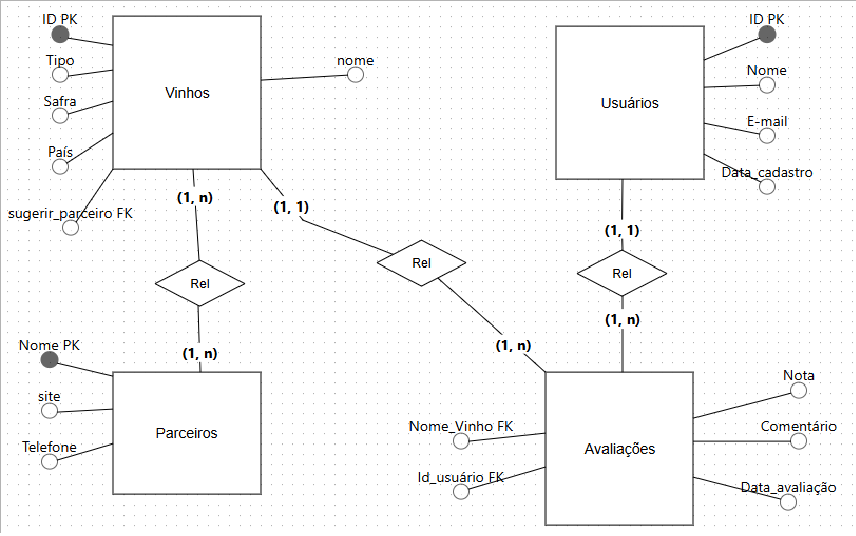
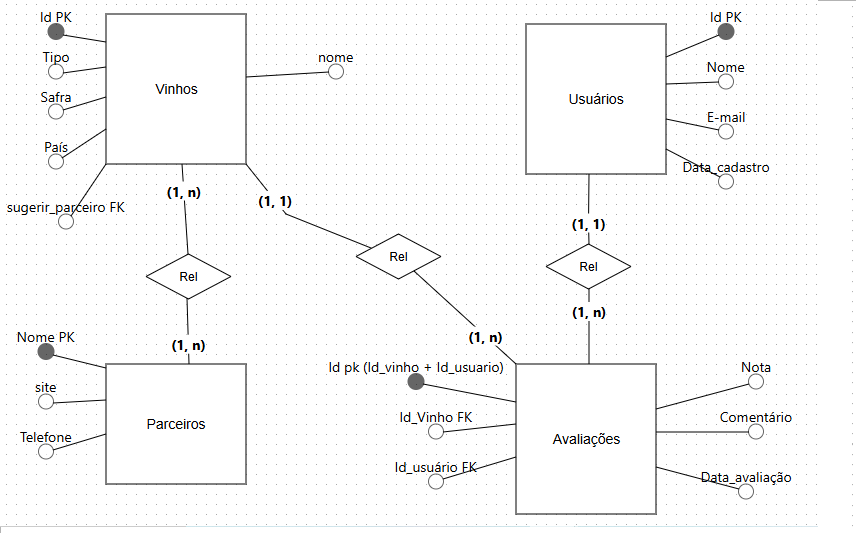
dados para teste inseridos nas tabelas SQL

diff --git a/README.md b/README.md
@@ -8,28 +8,27 @@ Diagrama Entidade Relacionamento
 ![alt text](imagens/DER.png)
 
 
-SQL
-
+```
   CREATE TABLE parceiro (
-  nome VARCHAR(30) PRIMARY KEY,
+  nome VARCHAR(50) PRIMARY KEY,
   site VARCHAR(100),
-  telefone INT
+  telefone VARCHAR(100)
   );
   
   CREATE TABLE vinho (
   id serial PRIMARY KEY,
-  nome VARCHAR(30),
-  tipo VARCHAR(8),
-  safra DATE,
-  pais VARCHAR(5),
+  nome VARCHAR(100),
+  tipo VARCHAR(30),
+  safra INT,
+  pais VARCHAR(30),
   sugerir_parceiro VARCHAR(30),
   FOREIGN KEY (sugerir_parceiro) REFERENCES parceiro(nome)
   );
   
   CREATE TABLE usuario (
   id serial PRIMARY KEY,
-  nome VARCHAR(30),
-  sobrenome VARCHAR(30),
+  nome VARCHAR(100),
+  sobrenome VARCHAR(100),
   email VARCHAR(100),
   data_cadastro DATE
   );
@@ -44,4 +43,29 @@ SQL
   FOREIGN KEY (id_usuario) REFERENCES usuario(id),
   FOREIGN KEY (id_vinho) REFERENCES vinho(id)
   );
-
+  
+  INSERT INTO parceiro (nome, site, telefone) VALUES
+  ('Evino', 'www.evino.com.br', '+55 (11) 4200-4999'),
+  ('Wine', 'www.wine.com.br', '+ 55 (31) 93500-4476'),
+  ('Divvino', 'www.divvino.com.br', '+55 (48) 4020 2004'),
+  ('Grand Cru', 'www.grandcru.com.br', '+55 (11) 4040 2562');
+  
+  INSERT INTO vinho (nome, tipo, safra, pais, sugerir_parceiro) VALUES
+  ('Concha Y Toro Reservado Cabernet Sauvignon', 'Tinto', 2019, 'Chile', 'Evino'),
+  ('Casillero Del Diablo Merlot', 'Tinto', 2014, 'Chile', 'Wine'),
+  ('Benjamin', 'Branco', 2018, 'Argentina', 'Divvino'),
+  ('Casal Garcia Branco', 'Branco', 2018, 'Portugal', 'Grand Cru');
+  
+  INSERT INTO usuario (nome, sobrenome, email, data_cadastro) VALUES
+  ('Amanda', 'Bazante', 'amanda@gmail.com', '2024-10-12'),
+  ('Caio', 'Martins', 'caio@gmail.com', '2024-11-20'),
+  ('Pedro', 'Rian', 'pedro@gmail.com', '2024-07-17'),
+  ('Wagner', 'Camargo', 'wagner@gamil.com', '2024-10-10');
+  
+  INSERT INTO avaliacao (id_usuario, id_vinho, nota, comentario, data_avaliacao) VALUES
+  (3, 1, 4.6, 'Com notas intensas de frutas escuras e um toque de carvalho, é um vinho encorpado e elegante. Perfeito para acompanhar carnes vermelhas e pratos sofisticados.', '2025-03-18'),
+  (1, 3, 4.7, 'O produto é ótimo para quem gosta de um vinho branco suave . É para tomar geladinho! Delícia!', '2025-04-17'),
+  (2, 4, 4.5, 'Leve, fresco e com um toque cítrico que combina perfeitamente com dias quentes. Ideal para acompanhar pratos leves ou simplesmente para apreciar sozinho.', '2025-03-01'),
+  (1, 2, 4.4, 'Um tinto cheio de personalidade: frutas escuras, toque de madeira e um final gostoso. Fácil de beber, combina demais com aquele churrasco ou jantar caprichado. Ótima pedida!', '2025-01-10');
+  
+```
